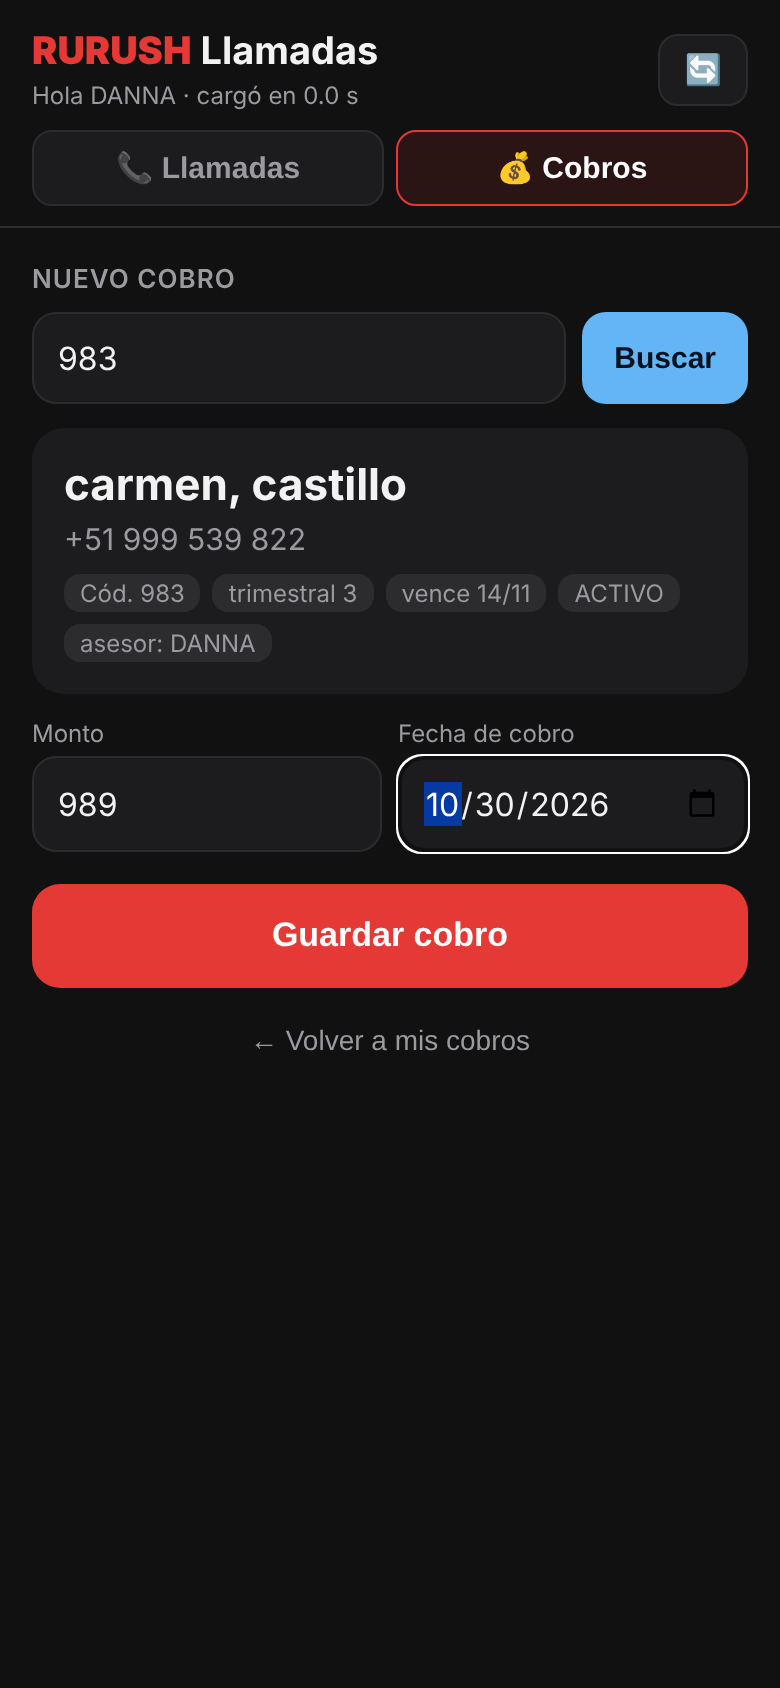
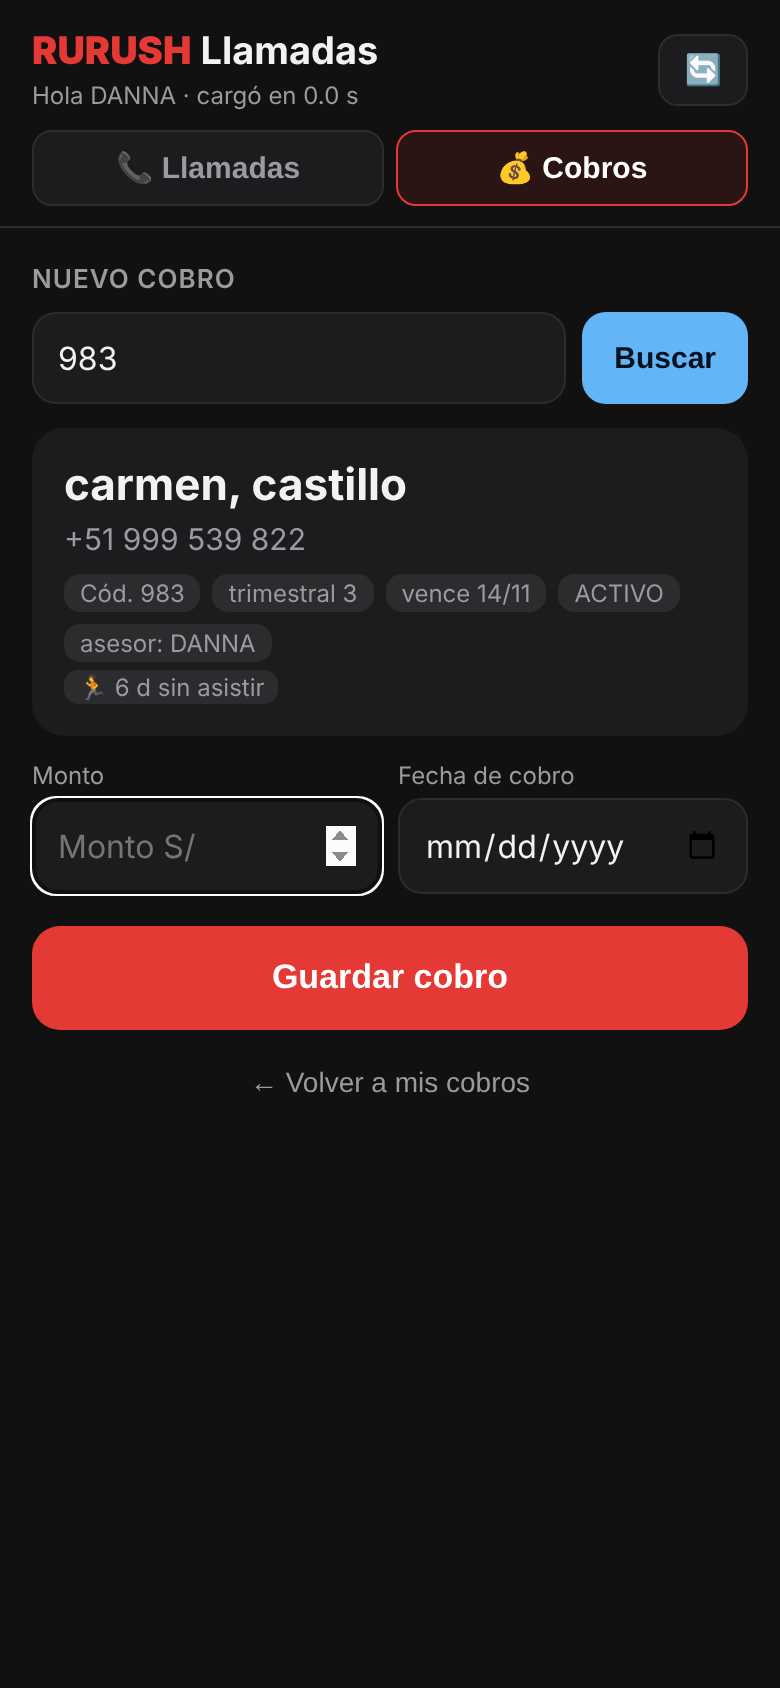
RURUSH Llamadas Cobros: días sin asistir del socio (columna V / BASE DE SOCIOS)
Claude-Session: https://claude.ai/code/session_01S5oX8KX7EUgsAcX1G6oYng

Changed region(s): [[0.0308, 0.4005, 0.9846, 0.6469], [0.9538, 0.4621, 0.9846, 0.4929]]

diff --git a/rurush-sheet-scripts/Llamadas.html b/rurush-sheet-scripts/Llamadas.html
@@ -59,6 +59,8 @@
   .cobro a { text-decoration:none; font-size:20px; padding:6px; }
   .nuevo { width:100%; background:var(--red); color:#fff; border:0; border-radius:14px; padding:14px; font-size:16px; font-weight:700; margin-bottom:6px; }
   .buscar { display:grid; grid-template-columns:1fr auto; gap:8px; } .buscar button { background:var(--ice); color:#04121f; border:0; border-radius:12px; padding:0 16px; font-weight:700; font-size:15px; }
+  .sa { display:inline-block; white-space:nowrap; margin-top:4px; font-size:12px; padding:1px 7px; border-radius:7px; background:var(--line); color:var(--mut); }
+  .sa.med { background:#3a2e10; color:#ffcc00; } .sa.alto { background:#3d1515; color:#ff6b6b; }
   .aviso { background:#3a2e10; color:#ffd666; border-radius:10px; padding:10px; font-size:13px; margin-top:10px; }
 </style>
 </head>
@@ -250,6 +252,8 @@ let MES_COBRO = (() => { try { return localStorage.getItem('rr_mescobro') || '';
 const MESES = ['Enero', 'Febrero', 'Marzo', 'Abril', 'Mayo', 'Junio', 'Julio', 'Agosto', 'Septiembre', 'Octubre', 'Noviembre', 'Diciembre'];
 const nombreMes = (ym) => MESES[Number(ym.slice(5, 7)) - 1] + ' ' + ym.slice(0, 4);
 const soles = (n) => 'S/' + Math.round(n).toLocaleString('en-US');
+// Días sin asistir: verde hasta 7, amarillo 8-14, rojo 15+.
+const diasSA = (d) => d == null ? '' : `<span class="sa ${d >= 15 ? 'alto' : d >= 8 ? 'med' : ''}">🏃 ${d === 0 ? 'vino hoy' : d + ' d sin asistir'}</span>`;
 const fechaCorta = (iso) => iso ? iso.slice(8, 10) + '/' + iso.slice(5, 7) : '';
 function cambiarVista(v) {
   VISTA = v;
@@ -272,7 +276,7 @@ function filaCobro(c) {
     : c.dias === 0 ? '<div class="f hoy">HOY</div>' : `<div class="f">${fechaCorta(c.fecha)} · en ${c.dias} d</div>`;
   const tel = c.celular ? `<a href="https://wa.me/51${c.celular}" target="_blank">💬</a><a href="tel:+51${c.celular}">📞</a>` : '';
   return `<div class="cobro"><div class="d"><div class="n">${esc(c.nombre || 'Cód. ' + c.codigo)}</div>
-    <div class="s">Cód. ${esc(c.codigo)}${c.plan ? ' · ' + esc(c.plan) : ''}${c.notas ? ' · ' + esc(c.notas) : ''}</div></div>
+    <div class="s">Cód. ${esc(c.codigo)}${c.plan ? ' · ' + esc(c.plan) : ''}${c.notas ? ' · ' + esc(c.notas) : ''}</div>${diasSA(c.diasSA)}</div>
     <div><div class="mt">${soles(c.monto)}</div>${f}</div>${tel}</div>`;
 }
 function pintarCobros() {
@@ -318,6 +322,7 @@ function pintarSocio(s) {
       <div class="nombre">${esc(s.nombre || 'Sin nombre')}</div>
       <div class="num">${s.celular ? '+51 ' + esc(s.celular.replace(/(\d{3})(\d{3})(\d{3})/, '$1 $2 $3')) : 'Sin celular'}</div>
       <div class="meta"><span class="tag">Cód. ${esc(s.codigo)}</span>${s.plan ? `<span class="tag">${esc(s.plan)}</span>` : ''}${s.vence ? `<span class="tag">vence ${fechaCorta(s.vence)}</span>` : ''}${s.estado ? `<span class="tag">${esc(s.estado)}</span>` : ''}<span class="tag">asesor: ${esc(s.quedaA || '—')}</span></div>
+      ${diasSA(s.diasSA)}
     </div>
     ${otra ? `<div class="aviso">Este cobro queda a nombre de <b>${esc(s.quedaA || 'nadie')}</b> (asesor del socio) y no te va a salir en tu lista.</div>` : ''}
     ${s.pendientes.length ? `<div class="aviso">Ya tiene ${s.pendientes.length} cobro(s) pendiente(s): ${s.pendientes.map((c) => soles(c.monto) + ' el ' + fechaCorta(c.fecha)).join(', ')}.</div>` : ''}

diff --git a/rurush-sheet-scripts/INSTALAR.md b/rurush-sheet-scripts/INSTALAR.md
@@ -64,7 +64,8 @@ La app tiene dos pestañas arriba: **📞 Llamadas** y **💰 Cobros**. Cobros l
   el celular recuerda el último mes elegido). Sale de la lista cuando RENOVADO? (O) = SÍ.
 - **Agregar:** pone el **código** del socio (columna B) → la app muestra nombre, celular, plan, vence y
   asesor → pone **monto** y **fecha** → se escribe en la primera fila libre (B, N, S y una nota en T
-  "📱 app ASESORA fecha"). Las fórmulas de la fila traen el resto, como cuando se escribe a mano.
+  "📱 app ASESORA fecha"). También muestra los **días sin asistir** del socio (columna V / DÍAS S/A):
+  gris hasta 7, amarillo 8-14, rojo 15 o más. Las fórmulas de la fila traen el resto, como cuando se escribe a mano.
 
 Instalar:
 1. **＋ → Secuencia de comandos** → nombre **Cobros** → pega **Cobros.gs** → Ctrl+S.
